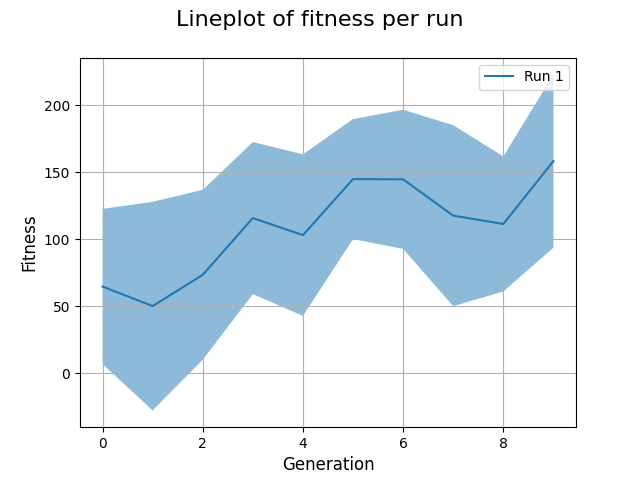
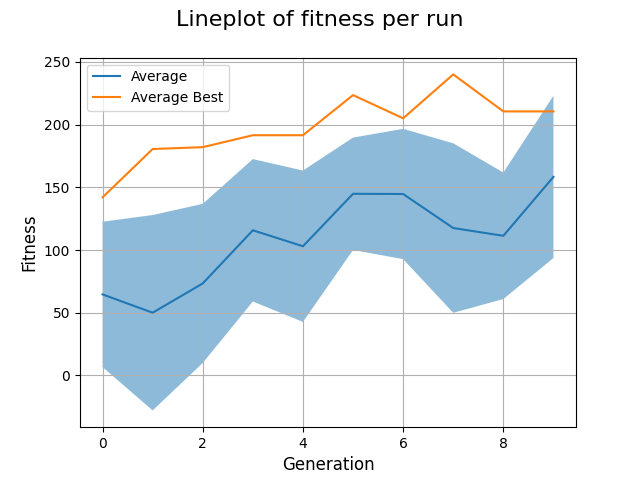
Add last figures for task 2

diff --git a/src/create_graph_results_two.py b/src/create_graph_results_two.py
@@ -1,0 +1,49 @@
+#!/usr/bin/env python3
+from __future__ import print_function
+
+import time
+# Import the necessary libraries to read
+# dataset and work on that
+import pandas as pd
+import numpy as np
+import matplotlib.pyplot as plt
+
+import robobo
+import cv2
+import sys
+import signal
+import prey
+from robot_controller import robotController
+
+
+
+
+def main():
+    # load the best individual from folder DEAP_ES_against_enemies_7_8_for_1_runs.txt
+    best_text_file = input("Enter path the result text file: ")
+    df = pd.read_csv(best_text_file, sep=" ")
+    mean_df = df.groupby(['gen']).mean()
+    # print(mean_df.index.values)
+    # Subplots as having two types of quality
+    fig, ax = plt.subplots()
+    fig.suptitle('Lineplot of fitness per run', fontsize=16)
+    plt.xlabel('Generation', fontsize=12)
+    plt.ylabel('Fitness', fontsize=12)
+
+    plt.grid()
+
+    plt.plot(mean_df.index.values, mean_df['mean'], label=f"Average")
+    plt.fill_between(mean_df.index.values, mean_df['mean'] - mean_df['std'], mean_df['mean'] + mean_df['std'],
+                     alpha=0.5)
+
+    plt.plot(mean_df.index.values, mean_df['best'], label=f"Average Best")
+
+    plt.legend(loc="best")
+
+    plt.show()
+
+
+
+
+if __name__ == "__main__":
+    main()
